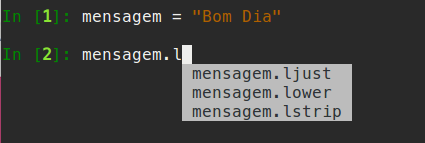
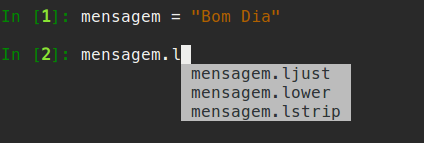
Atualiza apresentação

diff --git a/numpy_e_amigos.html b/numpy_e_amigos.html
@@ -44,14 +44,14 @@
                     <h3>Prof: Darlan Cavalcante Moreira</h3>
                 </section>
 
-                <section>
-                    <h2>Organização Desswa Apresentação</h2>
-                    <ul>
-                        <li>Conteúdo</li>
-                        <li>Exemplo</li>
-                        <li>Exercício</li>
-                    </ul>
-                </section>
+                <!-- <section>
+                     <h2>Organização Desswa Apresentação</h2>
+                     <ul>
+                     <li>Conteúdo</li>
+                     <li>Exemplo</li>
+                     <li>Exercício</li>
+                     </ul>
+                     </section> -->
                 
 				<section>
                     <h2>Objetivos</h2>
@@ -88,12 +88,14 @@
                         <li>Python possui duas versões: Python2 e <span class="green">Python3</span></li>
                         <!-- <li>Aqui usaremos a versão 3</li> -->
                         <li>Podem baixar a partir do site oficial em https://www.python.org/downloads/</li>
-                        <li>Ou podemos usar umas das <em>distribuições</em> disponíveis
+                        <li>No windows pode ser complicado instalar bibliotecas e suas dependências</li>
+                        <li>Um alternativa mais fácil é usar umas das <em class="green">distribuições python</em> disponíveis:
                             <ul>
-                                <li><a href="https://www.continuum.io/downloads/">Anaconda</a></li>
+                                <li><a href="https://www.continuum.io/downloads/">Anaconda</a> <i class="fa fa-hand-o-right"></i> Usamos essa para os computadores aqui do laboratório</li>
                                 <li><a href="https://www.enthought.com/products/canopy/">Canopy</a></li>
                                 <li><a href="https://winpython.github.io/">WinPython</a> (possui versão portable)</li>
                             </ul></li>
+                        <li><span class="red">Nota:</span> Podem me perguntar sobre o anaconda para mais detalhes depois</li>
                     </ul>
                 </section>
 
@@ -123,7 +125,7 @@
                         <li>Um dos recursos mais úteis do IPython é <a href="http://ipython.readthedocs.io/en/stable/interactive/tutorial.html#tab-completion">completar um comando</a></li>
                         <li>Após digitar parte do comando aperte <tt class="green">TAB</tt> para completar</li>
                         <li>Caso haja mais de uma opção uma lista de opções será mostrada</li>
-                        <img alt="TAB completion do IPython" src="imagens/numpy_part/ipython_tab_complete2.png"/ class="displayed">
+                        <img alt="TAB completion do IPython" src="imagens/numpy_part/ipython_tab_complete.png"/ class="displayed">
                         <li>Também acessar o shell do sistema usando <code>!commando</code> (muito útil para alternar entre pastas, remover arquivos, etc)</li>
                     </ul>
                     <code-terminal><in>!pwd  # Em que pasta estou agora (apenas pwd também funcionaria)</in>
@@ -151,15 +153,15 @@
                     </ul>
                 </section>
 
-                <section>
+                <section id="ipython_magic">
                     <h2>IPython</h2>
 
                     <ul>
                         <li>Outro recurso extremamente útil do IPython são os <a href="http://ipython.readthedocs.io/en/stable/interactive/tutorial.html#magic-functions">comandos mágicos</a></li>
                         <li>Alguns dos comandos mágicos mais úteis são:
                             <ul>
-                                <li><tt class="green">%whos</tt>: Lista variáveis e funções atuais (não mostra variáveis criadas pelo IPython como <code>_3</code>, <code>_i14</code>, etc)</li>
-                                <code-terminal dontshowcursor style="font-size:90%"><in>a = [1,2,3]</in>
+                                <li><tt class="fragment highlight-green">%whos</tt>: Lista variáveis e funções atuais (não mostra variáveis criadas pelo IPython como <code>_3</code>, <code>_i14</code>, etc)</li>
+                                <code-terminal id="code_terminal_whos" dontshowcursor style="font-size:90%;"><in>a = [1,2,3]</in>
 <in>b = "Olá Mundo"</in>
 <in>whos
 Variable   Type    Data/Info
@@ -171,57 +173,103 @@ b          str     Hello
 Variable   Type    Data/Info
 ----------------------------
 a          list    n=3</in></code-terminal>
-                                <li><tt class="green">%edit testando.py</tt>: Abre 'testando.py' e executa o código após sair</li>
-                                <li><tt class="green">%run testando.py</tt>: Executa testando.py como um script</li>
-                                <li><tt class="green">%paste</tt>: Cola e executa um bloco de código da área de transferência</li>
-                                <li><tt class="green">%timeit</tt>: Executa uma expressão e mostra tempo decorrido
-                                    <code-terminal dontshowcursor style="font-size:90%"><in>%timeit 4 * 5
-100000000 loops, best of 3: 12.3 ns per loop</in></code-terminal></li>
-                                <li><tt class="green">%macro</tt>: Define um macro para futura execução</li>
-                                    <li><tt class="green">%quickref</tt>: Cartão de referência do IPython <i class="green fa fa-hand-o-right"></i> Veja também <code>%comando?</code></li>
-                                    <li><tt class="green">%autocall</tt>: Dispensa os parêntesis em uma chamada de função</li>
+                                <li><tt class="fragment highlight-green">%edit testando.py</tt>: Abre 'testando.py' e executa o código após sair</li>
+                                <code-terminal id="code_terminal_edit" dontshowcursor><in>edit testando.py
+Editing... Waiting for Emacs...</in></code-terminal>
+                                <li><tt class="fragment highlight-green">%run testando.py</tt>: Executa testando.py como um script <span class="fragment highlight-green"><i class="fa fa-hand-o-right"></i> Também odemos pasasr opções como "-p" ou "-t"</span></li>
+                                <code-terminal id="code_terminal_run" dontshowcursor><in>cat testando.py  # Vamos ver o conteúdo que salvei no arquivo
+a = 10
+b = 20
+print(a * b)</in>
+<in>run testando.py  # TAB completa o nome do arquivo
+200
+</in>
+<in>whos
+Variable   Type    Data/Info
+----------------------------
+a          int     10
+b          int     20</in></code-terminal>
+                                <code-terminal id="code_terminal_run_profile" dontshowcursor><in>run -p testando.py</in>
+Ordered by: internal time
+
+ncalls  tottime  percall  cumtime  percall filename:lineno(function)
+     2    0.000    0.000    0.000    0.000 {built-in method io.open}
+     1    0.000    0.000    0.000    0.000 interactiveshell.py:2431(safe_execfile)
+     1    0.000    0.000    0.000    0.000 {built-in method builtins.compile}
+     2/1    0.000    0.000    0.000    0.000 {built-in method builtins.exec}
+     1    0.000    0.000    0.000    0.000 py3compat.py:182(execfile)
+     1    0.000    0.000    0.000    0.000 {built-in method builtins.print}
+     1    0.000    0.000    0.000    0.000 posixpath.py:318(normpath)
+     1    0.000    0.000    0.000    0.000 posixpath.py:145(dirname)
+     1    0.000    0.000    0.000    0.000 _bootlocale.py:23(getpreferredenco
+     ... ... ...</code-terminal>
+                                <li><tt class="fragment highlight-green">%paste</tt>: Cola e executa um bloco de código da área de transferência</li>
+                                <li><tt class="fragment highlight-green">%timeit</tt>: Executa uma expressão e mostra tempo decorrido</li>
+                                <code-terminal id="code_terminal_timeit" dontshowcursor style="font-size:90%"><in>%timeit 4 * 5
+100000000 loops, best of 3: 12.3 ns per loop</in></code-terminal>
+                                <!-- <li><tt class="fragment highlight-green">%macro</tt>: Define um macro para futura execução</li> -->
+                                <li><tt class="fragment highlight-green">%autocall</tt>: Dispensa os parêntesis em uma chamada de função</li>
+                                <code-terminal id="code_terminal_autocall" dontshowcursor><in>sum [1,2,3]
+-------> sum([1,2,3])</in>
+<output>6</output></code-terminal>
+                                    
+                                <li><tt class="fragment highlight-green">%quickref</tt>: Cartão de referência do IPython <i class="green fa fa-hand-o-right"></i> Veja também <code>%comando?</code></li>
                             </ul>
                         </li>
                     </ul>
                     
                 </section>
 
-                </section>
-                
-                <section>
-                    <h2>IPython</h2>
-                    <ul>
-                        <li><a href="http://ipython.org/ipython-doc/stable/interactive/tutorial.html">IPython</a> é poderoso shell interativo para a linguagem python
-                            <ul>
-                                <li><a href="http://ipython.readthedocs.io/en/stable/interactive/tutorial.html#tab-completion">Completar um comando</a> (após digitar parte dele) com <tt class="green">TAB</tt></li>
-                                <!-- <li>Sintaxe adicional para o shell</li> -->
-                                <li><a href="http://ipython.readthedocs.io/en/stable/interactive/tutorial.html#history">Histórico de comandos</a></li>
-                                <li>Acesso ao shell do sistema: <code>!commando</code></li>
-                            </ul>
-                        </li>
-                        <li><a href="http://ipython.readthedocs.io/en/stable/interactive/tutorial.html#exploring-your-objects">Obtendo Ajuda com "?"</a> <span style="font-size: 50%; float:right;">(se necessário aperte "q" para sair do help)</span>
-                            <code-terminal><span class="ipython-in">abs?</span>
-<span class="red">Docstring</span>: Return the absolute value of the argument.
-<span class="red">Type:</span>      builtin_function_or_method</code-terminal>
-                        </li>
-                        <li><a href="http://ipython.readthedocs.io/en/stable/interactive/tutorial.html#magic-functions">Funções mágicas</a> <i class="fa fa-hand-o-right"></i> <span class="green">Muito úteis</span>
-                            <ul>
-                                <li><tt class="green">%whos</tt>: Veja variáveis e funções atuais</li>
-                                <li><tt class="green">%run</tt>: Executa um arquivo como um script</li>
-                                <li><tt class="green">%paste</tt>: Cola e executa um bloco de código</li>
-                                <li><tt class="green">%timeit</tt>: Executa uma expressão e mostra tempo decorrido</li>
-                                
-                                <!-- <li><tt class="green">%macro</tt>: Define um macro para futura execução</li> -->
-                                <li><tt class="green">%quickref</tt>: Cartão de referência do IPython</li>
-                                <!-- <li class="fragment"><tt class="green">%autocall</tt>: Dispensa os parêntesis em uma chamada de função</li> -->
-                            </ul>
-                        </li>
-                    </ul>
-                </section>
-                
-                <section>
-                    <h2>Jupyter Notebooks</h2>
+                <!-- <section>
+                     <h2>IPython</h2>
 
+                     <ul>
+                     <li>Outro recurso extremamente útil do IPython são os <a href="http://ipython.readthedocs.io/en/stable/interactive/tutorial.html#magic-functions">comandos mágicos</a></li>
+                     <li>Alguns dos comandos mágicos mais úteis são:
+                     <ul>
+                     </ul>
+                     </li>
+                     </ul>
+                     </section> -->
+                
+
+                </section>
+
+                <section>
+                    <section>
+                        <h2>Jupyter Notebooks</h2>
+
+                        <ul>
+                            <li>Surgiu a partir do IPython, inspirado pelo Mathematica</li>
+                            <li>Pode ser usado online em <a href="https://try.jupyter.org">https://try.jupyter.org</a></li>
+                            <li>Pode ser instalado pelo Anaconda</li>
+                            <li>Rode o comando <code>jupyter notebook</code> para iniciar <span class="green"><i class="fa fa-hand-o-right"></i> Tentem agora</span></li>
+                            <li class="fragment"><span class="red">Nota:</span> Existem serviços que rodam na nuvem e permitem criar e executar notebooks como <a href="https://cloud.sagemath.com/settings">SageMathCloud</a> e <a href="https://wakari.io/">Wakario</a>
+                                <img alt="" src="imagens/numpy_part/sage_math_cloud.png" class="displayed" style="width: 700px;"/>
+                            </li>
+                        </ul>
+                        
+                    </section>
+
+                    <section>
+                        <h2>Jupyter Notebook</h2>
+                        <h3>Dashboard</h3>
+
+                        <ul>
+                            <li>Ao executar o notebook uma aba do navegador é aberta com o dashboard</li>
+                            <img alt="" src="imagens/numpy_part/jupyter_dashboard.png" style="border:none; margin:auto;"/>
+                        </ul>
+                        
+                    </section>
+
+                    <section>
+                        <h2>Jupyter Notebook</h2>
+                        <h3>Editor</h3>
+
+                        BLA BLA BLA
+                        
+                    </section>
+                    
                 </section>
                 
                 <section>
@@ -1275,6 +1323,7 @@ plt.show()
          // https://github.com/ptamarit/slides-data-viz-web-d3/blob/master/src/js/reveal-to-d3.js
          Reveal.addEventListener('slidechanged', function(event) {
              update_baterias();
+             update_ipython_magic();
              update_indexa_array();
              update_indexa_array2();
              update_indexa_array3();
@@ -1286,6 +1335,7 @@ plt.show()
          });
          Reveal.addEventListener('fragmentshown', function(event) {
              update_baterias();
+             update_ipython_magic();
              update_indexa_array();
              update_indexa_array2();
              update_indexa_array3();
@@ -1297,6 +1347,7 @@ plt.show()
          });
          Reveal.addEventListener('fragmenthidden', function(event) {
              update_baterias();
+             update_ipython_magic();
              update_indexa_array();
              update_indexa_array2();
              update_indexa_array3();

diff --git a/js/my_d3_draws.js b/js/my_d3_draws.js
@@ -751,3 +751,42 @@ function update_baterias() {
         }
     }
 }
+
+
+function update_ipython_magic() {
+    "use strict";
+
+    var currentSlideId = Reveal.getCurrentSlide().id;
+    if (currentSlideId === "ipython_magic") {
+        var svg = d3.select(document.getElementById("scientific_stack").contentDocument).select("svg");
+        var currentFragment = Reveal.getIndices().f;
+
+        var t = d3.select("#code_terminal_whos").style("display","none");
+        var t2 = d3.select("#code_terminal_edit").style("display","none");
+        var t3 = d3.select("#code_terminal_run").style("display","none");
+        var t4 = d3.select("#code_terminal_run_profile").style("display","none");
+        var t5 = d3.select("#code_terminal_timeit").style("display","none");
+        var t6 = d3.select("#code_terminal_autocall").style("display","none");
+        
+        switch (currentFragment) {
+        case 0:
+            t.style("display","block");
+            break;
+        case 1:
+            t2.style("display","block");
+            break;
+        case 2:
+            t3.style("display","block");
+            break;
+        case 3:
+            t4.style("display","block");
+            break;
+        case 5:
+            t5.style("display","block");
+            break;
+        case 6:
+            t6.style("display","block");
+            break;
+        }
+    }
+}

diff --git a/css/mystyles.css b/css/mystyles.css
@@ -7,6 +7,10 @@
 }
 
 
+.fa {
+    margin-left:5px;
+    margin-right:5px;
+}
 
 /* Se tiver uma tag code dentro de um item de uma lista */
 li>code {
@@ -78,6 +82,8 @@ code-terminal {
     display: block;
     margin-left: auto;
     margin-right: auto;
+    border: none;
+    /* margin: auto; */
 }
 
 
